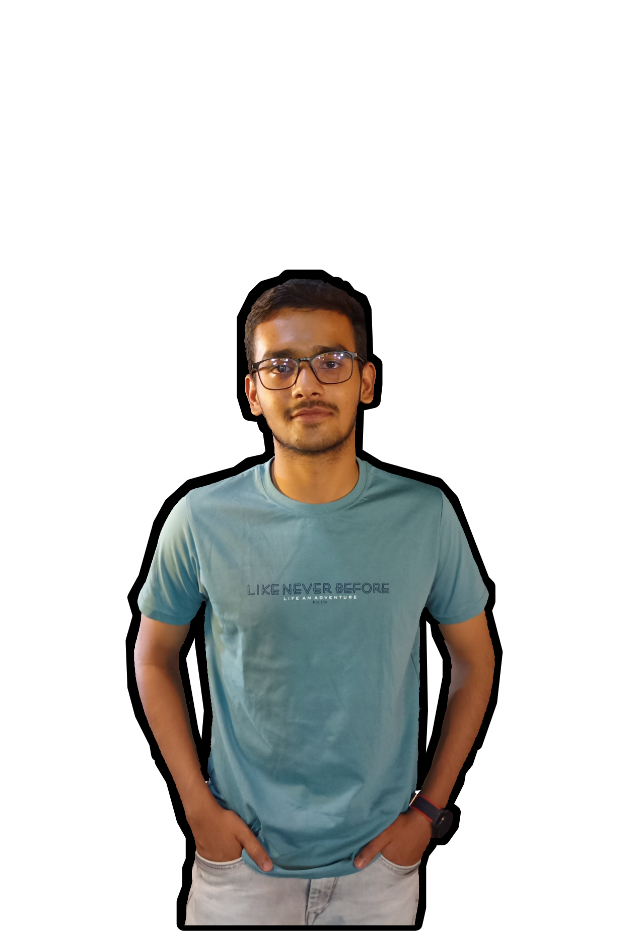
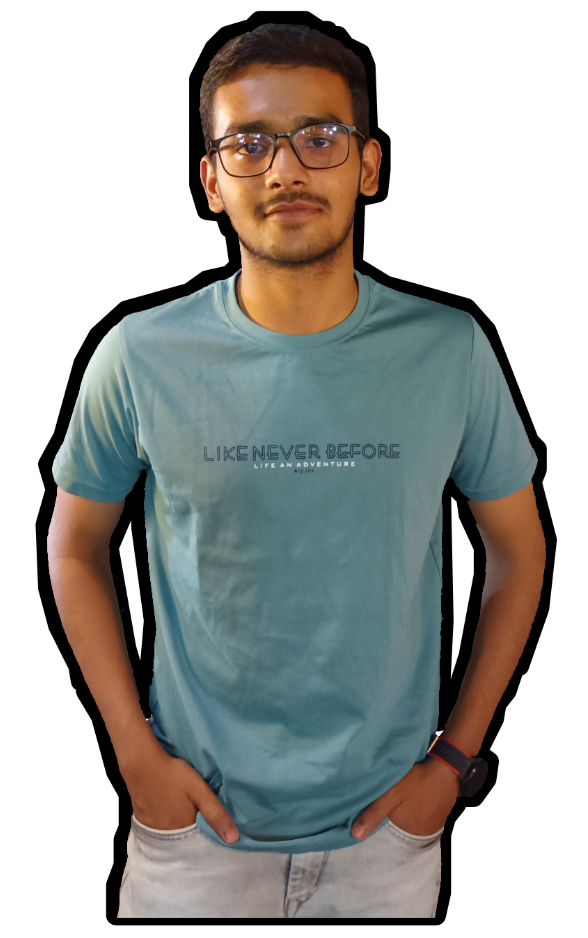
about-final

diff --git a/index.html b/index.html
@@ -71,7 +71,7 @@
                             </pattern>
 
                             <!-- Insert your profile (recommended size: 640 x 940) -->
-                            <image class="about-img" id="imageBorder" width="640" height="940"
+                            <image class="about-img" id="imageBorder" width="650" height="950"
                                 href="images/about-img.png" />
                         </defs>
                     </svg>
@@ -79,28 +79,40 @@
                 <div class="about-col-2">
                     <h1 class="sub-title">About Me</h1>
                     <br><br>
-                    <p class="about-desc">Student pursuing my Bachelor's degree in Computer Science & Engineering from Nagpur, Maharashtra. Detail-oriented and ambitious engineering student with a passion for obtaining accurate results and working on a team. Seeking an entry-level position in the engineering industry to pursue a career as a Full-Stack Developer and improve my skill set.</p>
+                    <p class="about-desc">Student pursuing my Bachelor's degree in Computer Science & Engineering from
+                        Nagpur, Maharashtra. Detail-oriented and ambitious engineering student with a passion for
+                        obtaining accurate results and working on a team. Seeking an entry-level position in the
+                        engineering industry to pursue a career as a Full-Stack Developer and improve my skill set.</p>
                     <div class="tab-title">
                         <p class="tab-links active-link" onclick="opentab('skills')">Skills</p>
                         <p class="tab-links" onclick="opentab('education')">Education</p>
                     </div>
                     <div class="tab-contents active-tab" id="skills">
                         <ul>
-                            <li><span>Front-end Development</span><br><p class="tab-desc">Designing Web app interfaces</p></li>
+                            <li><span>Front-end Development</span><br>
+                                <p class="tab-desc">Designing Web app interfaces</p>
+                            </li>
                         </ul>
                     </div>
                     <div class="tab-contents" id="education">
                         <ul>
-                            <li><span>2025</span><br><p class="tab-desc">B.Tech in CSE from S. B. Jain Institute of Technology, Management and Research, Nagpur</p></li>
-                            <li><span>2021</span><br><p class="tab-desc">HSC from S. K. Porwal College, Kamptee.</p></li>
-                            <li><span>2019</span><br><p class="tab-desc">SSC from St. Joesph's Convent High School, Kamptee.</p></li>
+                            <li><span>2025</span><br>
+                                <p class="tab-desc">B.Tech in CSE from S. B. Jain Institute of Technology, Management
+                                    and Research, Nagpur</p>
+                            </li>
+                            <li><span>2021</span><br>
+                                <p class="tab-desc">HSC from S. K. Porwal College, Kamptee.</p>
+                            </li>
+                            <li><span>2019</span><br>
+                                <p class="tab-desc">SSC from St. Joesph's Convent High School, Kamptee.</p>
+                            </li>
                         </ul>
                     </div>
                 </div>
             </div>
         </div>
     </div>
-     <!-- --------------------SKILLS-------------------- -->
+    <!-- --------------------SKILLS-------------------- -->
 
 
     <script src="https://unpkg.com/typed.js@2.0.16/dist/typed.umd.js"></script>
@@ -113,13 +125,13 @@
             loop: true
         });
 
-        var tablinks=document.getElementsByClassName("tab-links");
-        var tabcontents=document.getElementsByClassName("tab-contents");
-        function opentab(tabname){
-            for(tlink of tablinks){
+        var tablinks = document.getElementsByClassName("tab-links");
+        var tabcontents = document.getElementsByClassName("tab-contents");
+        function opentab(tabname) {
+            for (tlink of tablinks) {
                 tlink.classList.remove("active-link");
             }
-            for(tcontent of tabcontents){
+            for (tcontent of tabcontents) {
                 tcontent.classList.remove("active-tab");
             }
             event.currentTarget.classList.add("active-link");
